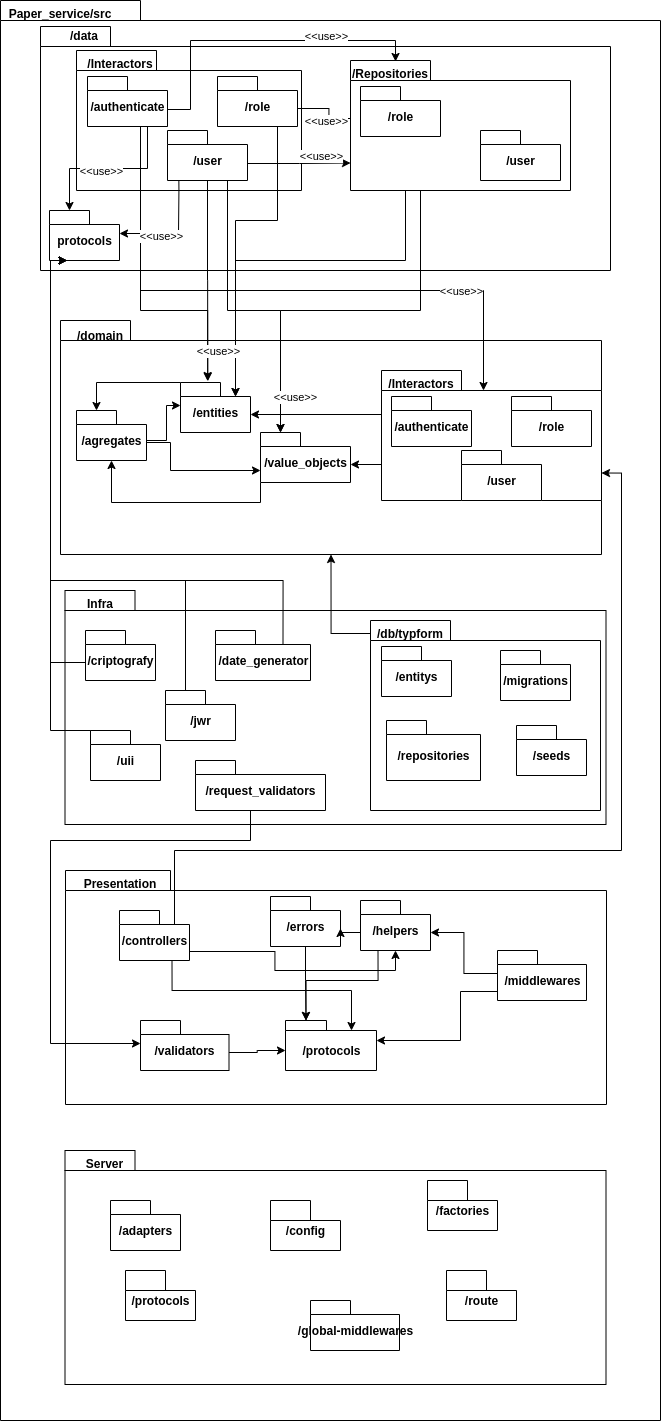
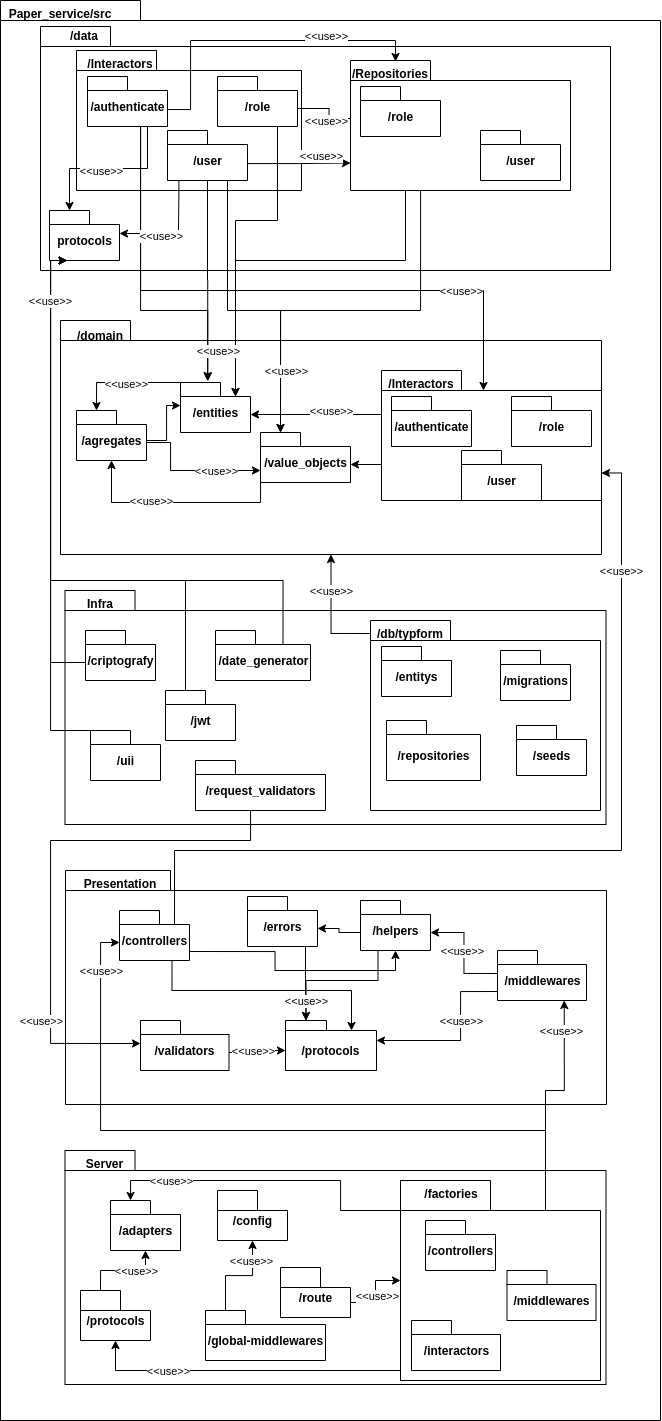
adding goals and constrains and backend package diagram

diff --git a/mkdocs/docs/softwareArchiteture/das.md b/mkdocs/docs/softwareArchiteture/das.md
@@ -39,6 +39,9 @@ https://expressjs.com/
 
 ### 1.5	Overview
 
+For the FrontEnd a component architeture is used with NextJs and in the BackEnd hexagonal architeture is used with Express. More about this is described in the next sections
+
+
 ## 2. Architectural Representation
 
 
@@ -67,7 +70,21 @@ The use of PostgreSQL was based on its robustness, as it is one of the most used
 
 
 ###  2.2 Architectural Goals and Constraints
+**Goals**
+|Requirements | |
+|------|------|
+|Scalability | The application must be scalable |
+| Security | The application must safely handle users' sensitive data |
+| Continous Integration | The application must have continous integration|
 
+**Constrains**
+
+|Constrains | |
+|------|------|
+| Connectivity | Internet connection is required|
+| Language | The application will be developed in English|
+| Team | The team has 6 people|
+| Deadline | The proposed scope must be completed by the end of the course|
 
 ## 3. Use-Case View
 The Use-Case Diagram describes the main features that the system intends to have. It is built of actors, who represent the real users of the system and the functionality (present in balloons) of the proposed application.
@@ -90,9 +107,11 @@ The most updated version of it can be seen below, and its traceability can be fo
 
 ### 4.1 Front-end Logical View
 ![Package Diagram](./images/packageDiagramFront.png).
+Autora: Mikhaelle Bueno.
 
 ### 4.2 Back-end Logical View
 ![Package Diagram](./images/packageDiagramBack.png).
+Autora: Mikhaelle Bueno.
 
 ## 5. Process View
 
